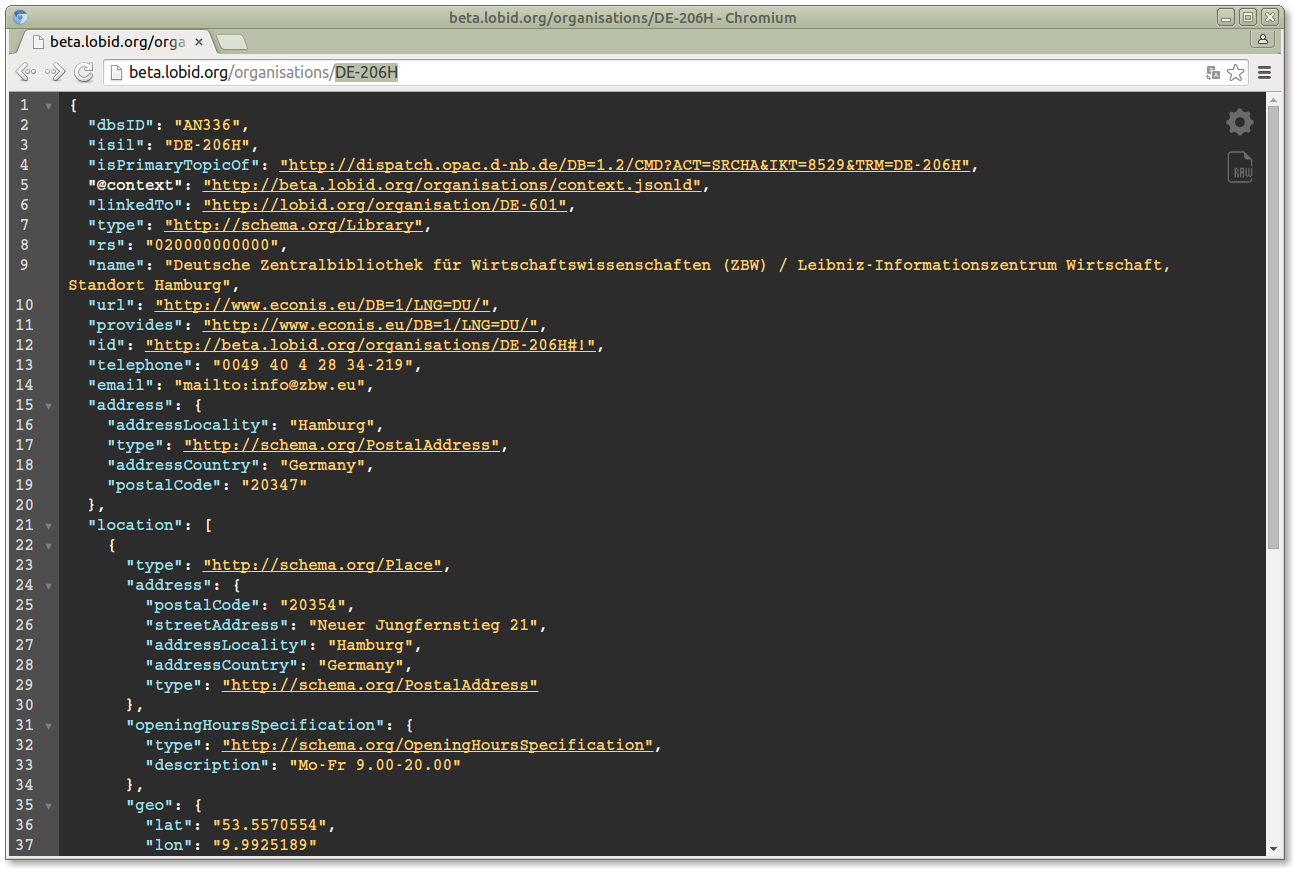
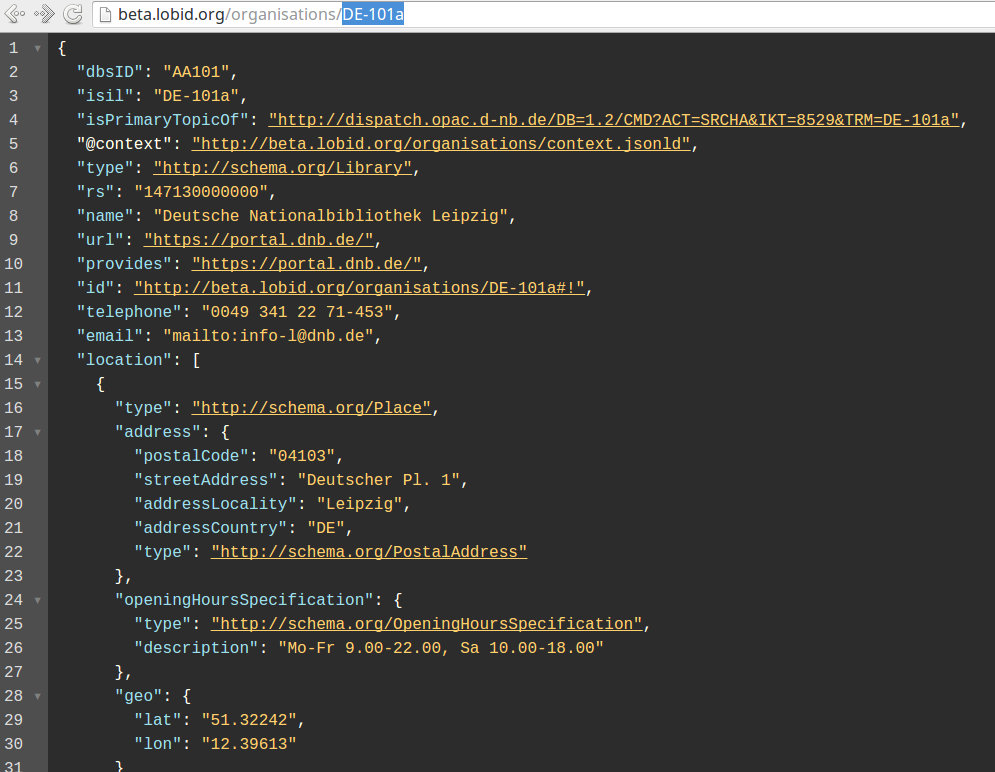
Adjust demo, add images.

Changed region(s): [[0.0, 0.0, 1.0, 1.0], [0.6231, 0.2798, 0.9035, 0.3109]]

diff --git a/bibcast16/index.html b/bibcast16/index.html
@@ -114,56 +114,6 @@
 			</section>
 
 			<section>
-				<h2>JSON(-LD) über HTTP:</h2>
-				<h2 class="fragment">Was heißt das?</h2>
-			</section>
-
-			<section>
-						<h2>HTTP-Anfrage:</h2>
-						<span><h4><a href="http://beta.lobid.org/organisations/search?q=name:stadtbibliothek+köln">http://beta.lobid.org/organisations/search?q=name:stadtbibliothek+köln</a></h4></span>
-			</section>
-
-			<section>
-						<h2>JSON als Antwortformat:</h2>
-						<pre>
-							<code>
-"hits":{
-  "total":1141,
-  "hits":[
-    {
-      "@context":"http://beta.lobid.org/organisations/context.jsonld",
-      "id":"http://beta.lobid.org/organisations/DE-380#!",
-      "type":"http://schema.org/Library",
-      "dbsID":"AJ380",
-      "isil":"DE-380",
-      "name":"Stadtbibliothek Köln",
-      "rs":"053150000000",
-      "wikipedia":"http://de.wikipedia.org/wiki/Stadtbibliothek_Köln",
-      "url":"http://www.stbib-koeln.de/",
-      "email":"mailto:direktion@stbib-koeln.de",
-      ...
-							</code>
-						</pre>
-			</section>
-
-			<section>
-						<h2>Vokabulare:</h2>
-						<span>				
-							<ul>
-								<li>Basisvokabular <a href="http://schema.org">schema.org</a>: 18 properties </li>
-								<li><a href="http://purl.org/lobid/lv#">lobid vocab</a>: 6 properties</li>
-								<li>Außerdem einzelne properties von <a href="http://purl.org/ontology/daia/">DAIA</a>, <a href="https://www.w3.org/2000/01/rdf-schema">RDFS</a>, <a href="http://www.w3.org/ns/org">Organization Ontology</a> etc.</li>
-								<li>Siehe auch den <a href="http://beta.lobid.org/organisations/context.jsonld">JSON-LD context</a></li>
-							</ul>
-						</span>
-			</section>
-
-			<section>
-						<h2>Datenstruktur</h2>
-						<span><h3>Geschachteltes JSON mit einem Wurzelelement (<a href="http://beta.lobid.org/organisations/DE-14">Beispiel SLUB</a>)</h3></span>
-			</section>
-
-			<section>
 						<h2>Datenbasis</h2>
 						<span>				
 							<ul>
@@ -189,31 +139,189 @@
 			</section>
 
 			<section>
+				<h2>JSON(-LD) über HTTP</h2>
+				<span class="fragment">
+					<h2>= Anfragen mittels URL</h2>
+					<h2>& Antwort in JSON-LD</h2>
+				</span>
+			</section>
+
+		<section>			
+			<section data-transition="slide">
+				<h1>
+					<a href="http://beta.lobid.org/organisations/search?q=name:nationalbibliothek+leipzig"
+						target="_blank">So funktioniert's</a>
+				</h1>
+				<small>Für Live-Demo Link oder Screenshot klicken</small>
+			</section>
+			
+			<section data-background="img/demo1-1.png"
+				data-background-size="contain">
+				<a target="_blank" title="Switch Live Demo"
+					href="http://beta.lobid.org/organisations/search?q=name:nationalbibliothek+leipzig"><h1>
+						&nbsp;<br />&nbsp;<br />&nbsp;
+					</h1></a>
+			</section>
+			
+			<section data-background="img/demo1-2.png"
+				data-background-size="contain">
+				<a target="_blank" title="Zur Live-Demo"
+					href="http://beta.lobid.org/organisations/search?q=name:museum+leipzig"><h1>
+						&nbsp;<br />&nbsp;<br />&nbsp;
+					</h1></a>
+			</section>
+		</section>
+
+		<section>
+			<h1>Use Case</h1>
+			<h2>Fragen beantworten</h2>
+		</section>
+
+		<section>
+			<h1>Beispielfrage 1:</h1>
+			<span class="fragment">
+				<h3>Wieviele Bibliotheken gibt es in Deutschland?</h3>
+			</span>
+		</section>
+
+		<section>
+			<h1>10.000?</h1>
+			<small>
+				<blockquote class="twitter-tweet" lang="en">
+					<p lang="de" dir="ltr">
+						.<a href="https://twitter.com/fsteeg">@fsteeg</a> &quot;10.200
+						[Bibliotheken] gibt es insgesamt&quot;. Sind eher doppelt so
+						viel, wenn man die Pfarrbibliotheken dazu zählt.
+					</p>
+					&mdash; Adrian Pohl (@acka47) <a
+						href="https://twitter.com/acka47/status/604286119950176258">May
+						29, 2015</a>
+				</blockquote>
+			</small> <span class="fragment">
+				<p />
+				<h1>20.000?</h1> <small><blockquote class="twitter-tweet"
+						lang="en">
+						<p lang="de" dir="ltr">
+							In Deutschland gibt es 19.347 Bibliotheken <a
+								href="http://t.co/qPcY3Kh7o7">http://t.co/qPcY3Kh7o7</a> .
+							Datenquelle: dbs und ZDB-Sigeldatei /via <a
+								href="https://twitter.com/lobidOrg">@lobidOrg</a> API
+						</p>
+						&mdash; dr0ide (@dr0ide) <a
+							href="https://twitter.com/dr0ide/status/608588848243818496">June
+							10, 2015</a>
+					</blockquote> </small>
+			</span>
+		</section>
+
+	<section>			
+		<section data-transition="slide">
+				<h1>
+					<a href="http://beta.lobid.org/organisations/DE-101a"
+						target="_blank">Los geht's</a>
+				</h1>
+		</section>	
+			
+		<section data-background="img/demo2-1.png"
+			data-background-size="contain">
+			<a target="_blank" title="Zur Live-Demo"
+				href="http://beta.lobid.org/organisations/DE-101a"><h1>
+					&nbsp;<br />&nbsp;<br />&nbsp;
+				</h1></a>
+		</section>
+		
+		<section data-background="img/demo2-2.png"
+			data-background-size="contain">
+			<a target="_blank" title="Zur Live-Demo"
+				href="http://beta.lobid.org/organisations/DE-101a"><h1>
+					&nbsp;<br />&nbsp;<br />&nbsp;
+				</h1></a>
+		</section>
+		
+		<section data-background="img/demo2-3.png"
+			data-background-size="contain">
+			<a target="_blank" title="Zur Live-Demo"
+				href="http://beta.lobid.org/organisations/DE-101a"><h1>
+					&nbsp;<br />&nbsp;<br />&nbsp;
+				</h1></a>
+		</section>
+		
+		<section data-background="img/demo2-4.png"
+			data-background-size="contain">
+			<a target="_blank" title="Zur Live-Demo"
+				href="http://beta.lobid.org/organisations/search?q=type:Library+AND+location.address.addressCountry:Germany"><h1>
+					&nbsp;<br />&nbsp;<br />&nbsp;
+				</h1></a>
+		</section>
+		
+		<section data-background="img/demo2-5.png"
+			data-background-size="contain">
+			<a target="_blank" title="Zur Live-Demo"
+				href="http://beta.lobid.org/organisations/search?q=type:Library+AND+location.address.addressCountry:Germany"><h1>
+					&nbsp;<br />&nbsp;<br />&nbsp;
+				</h1></a>
+		</section>	
+	</section>	
+	
+	<section>
+		<h2>Wieviele Bibliotheken gibt es in Deutschland?</h2>
+		<span class="fragment">
+			<h3>Antwort: 13.284</h3>
+		</span>
+	</section>	
+	
+		<section>
+			<h1>Beispielfrage 2:</h1>
+			<span class="fragment">
+				<h3>Wieviele Bibliotheken gibt es im Landkreis Peine?</h3>
+			</span>
+		</section>
+
+		<section>
+			<h1>Beispielfrage 3:</h1>
+			<span class="fragment">
+				<h3>Wieviele von der kath. Kirche finanzierte Bibliotheken gibt es in NRW?</h3>
+			</span>
+			<span class="fragment">
+				<h4><a href="">http://beta.lobid.org/organisations/search?q=type:Library+AND+fundertype:+AND+rs:</a></h4>
+			</span>
+		</section>
+
+
+			<section>
 				<h1>Use Case</h1>
 				<h2>Daten visualisieren</h2>
 			</section>
 
 			<section>
-				<h2>Bsp.: Bibliotheken in Köln</h2>
+				<h2>Bsp.: Bibliotheken in Leipzig</h2>
 				<h3>Erstellung einer interaktiven Karte</h3>
 			</section>
-
+			
+		<section>
+			<section data-transition="slide">
+				<h1>
+					<a href="http://beta.lobid.org/organisations/search?q=type:Library+AND+location.address.addressLocality:Leipzig"
+						target="_blank">So funktioniert's</a>
+				</h1>
+			</section>
+			
 			<section>
 				<h2>Schritt 1:</h2>
 				<h3>Beispieldatensatz anschauen</h3>
-				<h4><a href="http://beta.lobid.org/organisations/DE-14">http://beta.lobid.org/organisations/DE-14</a></h4>
+				<h4><a href="http://beta.lobid.org/organisations/DE-101a">http://beta.lobid.org/organisations/DE-101a</a></h4>
 			</section>
 
 			<section>
 				<h2>Schritt 2:</h2>
 				<h3>Relevante Felder identifizieren</h3>
-				<h4><code>@type</code> AND <code>location.address.addressLocality</code></h4>
+				<h4><code>type</code> AND <code>location.address.addressLocality</code></h4>
 			</section>
 			
 			<section>
 				<h2>Schritt 3:</h2>
 				<h3>API-Anfrage schreiben</h3>
-				<h4><a href="	http://beta.lobid.org/organisations/search?q=@type:Library+AND+location.address.addressLocality:Köln">http://beta.lobid.org/organisations/search?q=type:Library+AND+location.address.addressLocality:Köln</a></h4>
+				<h4><a href="http://beta.lobid.org/organisations/search?q=type:Library+AND+location.address.addressLocality:Leipzig">http://beta.lobid.org/organisations/search?q=type:Library+AND+location.address.addressLocality:Leipzig</a></h4>
 			</section>
 
 			<section>
@@ -227,20 +335,8 @@
 				<h3>HTML-Datei öffnen</h3>
 				<h4><a href="demo.html" target="_blank">demo.html</a></code></h4>
 			</section>
-
-			<section>
-				<h1>Fragen beantworten</h1>
-				<span class="fragment">
-					<h3>Wieviele Bibliotheken gibt es in Deutschland?</h3>
-				</span>
-				<span class="fragment">
-					<h3>Wieviele von der kath. Kirche finanzierte Bibliotheken gibt es in NRW?</h3>
-				</span>
-				<span class="fragment">
-					<h3>...</h3>
-				</span>
-			</section>
-
+		</section>
+		
 			<section>
 				<img src="img/bsp-ul+json-ergebnis.png" width=320 />
 			</section>

diff --git a/bibcast16/demo.html b/bibcast16/demo.html
@@ -8,15 +8,15 @@
     <script src="https://code.jquery.com/jquery-2.1.4.min.js"></script>
   </head>
   <body style="color: white; background: #004678">
-    <h1>Bibliotheken in Köln</h1>
+    <h1>Bibliotheken in Leipzig</h1>
     <div id="map" style="height: 500px; color: black;"></div>
     <script>
     // we create a map:
-    var map = L.map('map').setView([50.938056, 6.956944], 14);
+    var map = L.map('map').setView([51.340333, 12.37475], 13);
     var layer = L.tileLayer('http://otile4.mqcdn.com/tiles/1.0.0/map/{z}/{x}/{y}.png').addTo(map);
     // we call the lobid API:
     $.ajax({
-        url: 'http://beta.lobid.org/organisations/search?size=400&q=type:Library+AND+location.address.addressLocality:K%C3%B6ln',
+        url: 'http://beta.lobid.org/organisations/search?size=400&q=type:Library+AND+location.address.addressLocality:Leipzig',
         success: function(result){
             // iterate over all hits...
             $.each(result.hits.hits, function(index, hit) {
